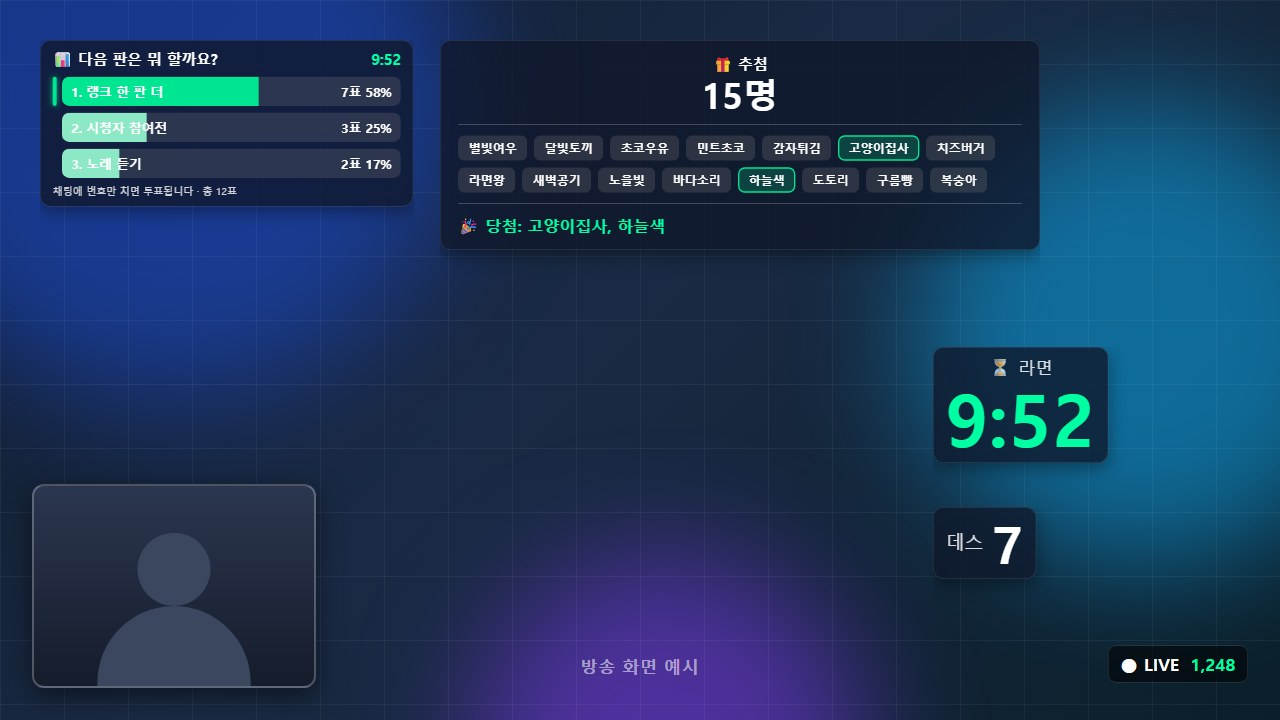
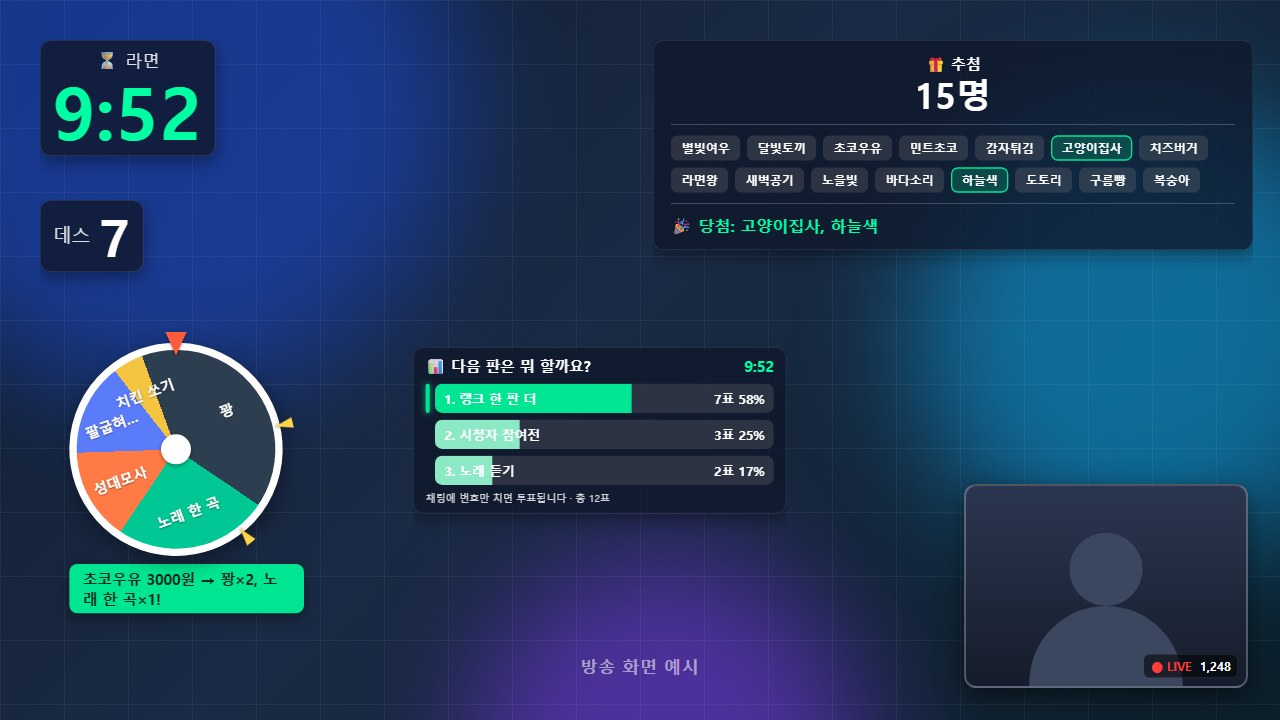
방송 화면 합성 재배치: 캠 우측 하단·작은 빨간 LIVE, 왼쪽에 타이머·데스·돌림판, 오른쪽 위 추첨, 가운데 투표

diff --git a/index.html b/index.html
@@ -523,8 +523,8 @@
       <div class="co co-set reveal"><span class="line"></span><div class="txt"><b>설정 버튼 하나</b><p>인사말, 후원 문구, 명령어를 눌러서 고치면 봇에 바로 반영됩니다.</p></div></div>
     </div>
     <div class="screens reveal">
-      <div class="big"><img src="/img/shots/overlay-all.jpg" width="1280" height="720" alt="방송 화면 예시 — 왼쪽 위 투표 막대, 가운데 추첨 참여자 명단과 당첨자, 오른쪽 타이머와 데스 카운터" loading="lazy"></div>
-      <p class="cap">방송 화면에는 이렇게 뜹니다. OBS 브라우저 소스로 넣는 투표·추첨·타이머·카운터 (예시 화면)</p>
+      <div class="big"><img src="/img/shots/overlay-all.jpg" width="1280" height="720" alt="방송 화면 예시 — 왼쪽에 타이머·데스 카운터·돌림판, 오른쪽 위 추첨 명단과 당첨자, 가운데 투표 막대, 오른쪽 아래 캠" loading="lazy"></div>
+      <p class="cap">방송 화면에는 이렇게 뜹니다. OBS 브라우저 소스로 넣는 타이머·카운터·돌림판·추첨·투표 (예시 화면)</p>
       <div class="three">
         <figure><img src="/img/shots/features-raffle.png" width="1100" height="720" alt="아인 기능 창 — 추첨 화면. 모집 재개 버튼, 명단 표시·자동 채팅 띄우기·TTS 스위치, 참여자 15명 목록" loading="lazy"><figcaption><b>기능 창</b>투표·추첨·룰렛·타이머를 버튼으로</figcaption></figure>
         <figure><img src="/img/shots/overlay-spotlight.jpg" width="1280" height="720" alt="방송 화면 예시 — 당첨자 닉네임과 그 사람의 채팅 두 줄이 화면에 뜬 모습" loading="lazy"><figcaption><b>당첨자 채팅 띄우기</b>한 명 뽑으면 그 사람 채팅이 화면에, 음성으로도</figcaption></figure>
